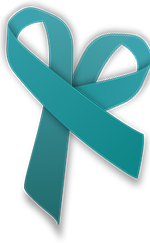
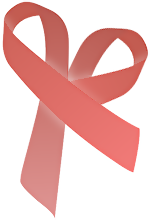
menambah font baru

diff --git a/css/style.css b/css/style.css
@@ -60,7 +60,7 @@ body {
     position: relative;
 }
 .ribbon {
-    background-image: url(../img/ribbon1.png);
+    background-image: url(../img/ribbon4.png);
     background-repeat: no-repeat;
     position: absolute;
     height: 300px;
@@ -72,7 +72,7 @@ body {
 }
 .sosmed {
     height: 40px;
-    background-color: #0E808B;
+    background-color: salmon;
     position: fixed;
     top: 0;
     left: 0;
@@ -103,7 +103,7 @@ body {
     color: white;
     font-size: 35px;
 }
-    .sosmed2 ul li a {
+    .side-menu ul li a {
         color: white;
         font-size: 65px;
         display: block;
@@ -111,8 +111,9 @@ body {
         position: static;
         padding-top: 6px;        
     }
-    .sosmed2 ul li a:hover {
-        color: #0E808B;
+    .side-menu ul li a:hover {
+        color: wheat;
+        transition: .7s;
     }
 .container {
     background-color: whitesmoke;
@@ -125,17 +126,34 @@ body {
 .header .judul {
     font-size: 40px;
     padding-top: 60px;
-    color: #0E808B;
+    padding-left: 5px;
     font-weight: bold;
 }
 .header .judul a:hover {
-    color: #0E808B;
+    color: salmon;
+    transition: .5s;
+}
+.header a {
+    text-decoration: none;
+    color: brown;
+    -webkit-filter: drop-shadow(0 1px 10px salmon);
+    
+
 }
 .header small {
-    font-size: 12px;
+    font-size: 23px;
+    font-family: 'alex_brushregular';
     padding-top: -10px;
-    color: #0E808B;
+    color: white;
     margin-left: 8px;
+    -webkit-filter: drop-shadow(0 1px 2px black);
+}
+/*! Generated by Font Squirrel (https://www.fontsquirrel.com) on November 12, 2020 */
+@font-face {
+    font-family: 'alex_brushregular';
+    src: url('../fonts/alexbrush-regular-webfont.woff') format('woff');
+    font-weight: normal;
+    font-style: normal;
 }
 .header ul li {
     display: inline-block;
@@ -143,24 +161,29 @@ body {
     margin-top: 25px;
     margin-bottom: 10px;
     margin-left: 8px;
-    border: thin solid #00CCCC;
+    border: 2px solid white;
     border-radius: 5px;
+    padding-left: 5px;
+    padding-right: 5px;
+    color: salmon;
+    box-sizing: border-box;
  }
-.header a {
-    text-decoration: none;
-    color: #00CCCC;
-    padding: 5px;
+.header ul li:hover {
+    background-color: salmon;
+    color: whitesmoke;
+    transition: .5s;
 }
-.header li:hover {
-    background-color: lightblue;
+.header ul li a:hover {
+    color: whitesmoke;
+    transition: .5s;
 }
 .hero {
     background-image: url(../img/emr.png);
     height: 360px;
     background-size: cover;
     background-position: bottom;
-    border-top: 25px solid #339999;
-    border-bottom: 3px solid #0E808B;
+    border-top: 25px solid salmon;
+    border-bottom: 3px solid brown;
     box-sizing: border-box;
 }
 .welcome h1 {
@@ -175,9 +198,10 @@ body {
     margin-top: 150px;
 }
 .welcome h1:hover {
-    background-color: #00CCCC;
+    background-color: salmon;
     color: whitesmoke;
     border-radius: 10px;
+    transition: .5s;
 }
 .contain {
     background-color: wheat;
@@ -191,15 +215,17 @@ body {
     color: #333;
 }
 .contain h2 {
-    font-size: 34px;
+    font-size: 44px;
     font-weight: bold;
-    color: #00CCCC;
+    color: brown;
     padding-top: 20px;
     display: inline-block;
+    font-family: 'alex_brushregular';
 }
 .contain h2:hover {
-    color: #0E808B;
-    border-bottom: 2px solid #0E808B;
+    color: salmon;
+    border-bottom: 2px solid salmon;
+    transition: .5s;
 
 }
 .contain p {
@@ -213,7 +239,7 @@ body {
 }
 a {
     text-decoration: none;
-    color: #00CCCC;
+    color: salmon;
 }
 .art a {
     font-size: 10px;
@@ -235,7 +261,7 @@ a {
     padding-right: 12px;
     padding-left: 12px;
     float: left;
-    border: 3px dashed #00CCCC;
+    border: 3px dashed salmon;
     font: 14px/18px Trebuchet Ms, Sans-serif;
  }
  .art .art2 {
@@ -246,7 +272,7 @@ a {
     padding-right: 12px;
     padding-left: 12px;
     float: right;
-    border: 3px dashed #00CCCC;
+    border: 3px dashed salmon;
     font: 14px/18px Trebuchet Ms, Sans-serif;
  }
  .art .art3 {
@@ -257,7 +283,7 @@ a {
     padding-right: 12px;
     padding-left: 12px;
     float: left;
-    border: 3px dashed #00CCCC;
+    border: 3px dashed salmon;
     font: 14px/18px Trebuchet Ms, Sans-serif;
  }
  .art .art4 {
@@ -269,7 +295,7 @@ a {
     padding-right: 12px;
     padding-left: 12px;
     float: right;
-    border: 3px dashed #00CCCC;
+    border: 3px dashed salmon;
     font: 14px/18px Trebuchet Ms, Sans-serif;
  }
  .art img {

diff --git a/index.html b/index.html
@@ -6,7 +6,8 @@
     <title>RS | Bhakti Kartini</title>
     <link rel="stylesheet" href="css/style.css">
     <link rel="stylesheet" href="https://cdnjs.cloudflare.com/ajax/libs/font-awesome/5.15.1/css/all.min.css">
-    <link rel="stylesheet" href="https://fonts.googleapis.com/css2?family=Montserrat:wght@100&display=swap">
+    <link rel="preconnect" href="https://fonts.gstatic.com">
+    <link href="https://fonts.googleapis.com/css2?family=Raleway:wght@100&display=swap" rel="stylesheet">
 </head>
 <body>
 <div class="body">
@@ -22,7 +23,7 @@
         </ul>
     </div>
     <div class="side-bar">
-        <div class="sosmed2">
+        <div class="side-menu">
             <ul>
                 <li><a href="#"><i class="fas fa-stethoscope"></i></a></li>
                 <li><a href="#"><i class="far fa-calendar-alt"></i></a></li>
@@ -34,11 +35,12 @@
     </div>
     <div class="container">
         <div class="box-header">
+
             <a href="#" class="ribbon">ribbon</a>
            <div class="header">
                
                 <h1 class="judul"><a href="https://yhamid01.github.io/">BHAKTI KARTINI</a></h1>
-                <small class="melayani">Melayani Sepenuh Hati Setiap Hari Tiada Henti</small>
+                <small class="melayani">Lebih Baik, Melayani Sepenuh Hati</small>
                 <ul>
                     <li><a href=index.html>Beranda</a></li>
                     <li><a href=about.html target="_blank">Tentang Kami</a></li>
